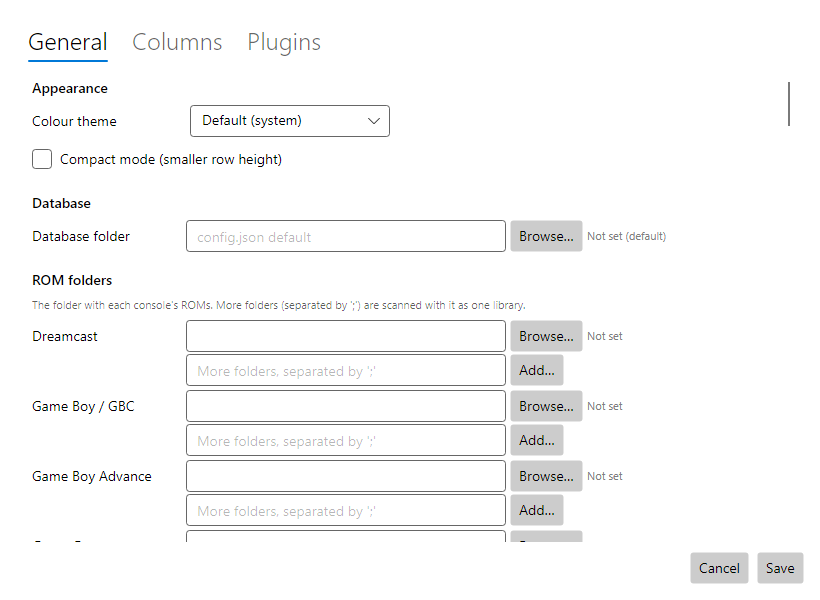
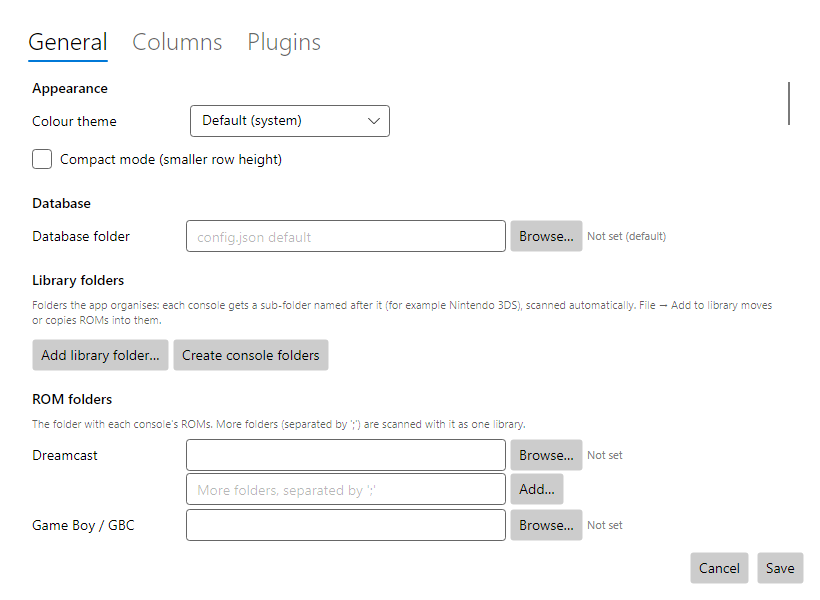
Docs: roadmap v6 (v5 archived), architecture, README and screenshots

diff --git a/RomManagerTests/HeadlessUiTests.cs b/RomManagerTests/HeadlessUiTests.cs
@@ -1,4 +1,4 @@
-using RomManagerShared.GameBoy;
+using RomManagerShared.GameBoy;
 using RomManagerShared.NES;
 using Avalonia;
 using Avalonia.Controls;
@@ -338,6 +338,43 @@ public sealed class HeadlessUiTests
         message.Show();
         Capture(message, "plugin-message");
         message.Close();
+
+        // File → Add to library: the plan before anything moves.
+        var import = new AddToLibraryViewModel(new LibraryImport([], new Dictionary<Type, IReadOnlyCollection<string>>()), [@"D:\Games"])
+        {
+            SourceFolder = @"D:\Downloads",
+            Summary = @"4 of 5 item(s) will be moved into D:\Games, one folder per console.",
+        };
+        import.Rows.Add(new ImportRow("Star Courier.nes", "NES", @"→ D:\Games\Nintendo Entertainment System\Star Courier.nes", true));
+        import.Rows.Add(new ImportRow("Ghost Lantern.gb", "Game Boy", @"→ D:\Games\Game Boy\Ghost Lantern.gb", true));
+        import.Rows.Add(new ImportRow("Sky Ferry.cue (+2 file(s))", "PlayStation", @"→ D:\Games\PlayStation\Sky Ferry.cue", true));
+        import.Rows.Add(new ImportRow("Lunar Drift", "Wii U", @"→ D:\Games\Wii U\Lunar Drift", true));
+        import.Rows.Add(new ImportRow("readme.txt", "?", "Skipped: Not a ROM format", false));
+        var importWindow = new DialogWindow(import);
+        importWindow.Show();
+        Find<ListBox>(importWindow).ItemCount.Should().Be(5);
+        Capture(importWindow, "add-to-library");
+        importWindow.Close();
+
+        // Properties: a game with its update and DLC as links.
+        var game = new Game
+        {
+            TitleID = "0004000000030700", Path = Path.Combine(Path.GetTempPath(), "roms", "Star Courier.3ds"), Version = "0",
+            Size = 512L << 20, Publisher = "Nintendo", ProductCode = "CTR-P-AMKE",
+        };
+        game.AddTitleName("Star Courier");
+        game.AddRegion(Region.USA);
+        var update = new Update { TitleID = "0004000E00030700", Path = Path.Combine(Path.GetTempPath(), "roms", "Star Courier Update.cia"), Version = "3152" };
+        update.AddTitleName("Star Courier Update");
+        var dlc = new DLC { TitleID = "0004008C00030700", Path = Path.Combine(Path.GetTempPath(), "roms", "Star Courier Tracks.cia") };
+        dlc.AddTitleName("Star Courier Track Pack");
+        var page = new TestConsoleViewModel();
+        page.Show(game, update, dlc);
+        var properties = new DialogWindow(new PropertiesDialogViewModel(page.Roms[0]));
+        properties.Show();
+        Find<Button>(properties, b => b.Content as string == "Star Courier Update v3152").Should().NotBeNull();
+        Capture(properties, "properties");
+        properties.Close();
 
         var onboarding = new OnboardingViewModel(new AvaloniaUI.Utils.Settings(), _ => { });
         onboarding.NextCommand.Execute(null);

diff --git a/docs/ROADMAP.md b/docs/ROADMAP.md
@@ -1,73 +1,65 @@
-# Roadmap v5
+# Roadmap v6
 
-Written 2026-10-28 after [v4](ROADMAP-v4.md), from a review of the context menu, the plugin system and the UI.
-The app is not public yet, so the plugin contract changes in place: it stays plugin API 1.
+Written 2026-10-28 after [v5](ROADMAP-v5.md), from using the app on a small 3DS library (an encrypted cartridge dump
+and its update CIA) and a list of problems and wishes.
 
 Legend: **[P0]** data safety or correctness, **[P1]** high value, **[P2]** nice to have.
 
 ---
 
-## Phase A: Context menu
+## Phase A: Bugs
 
-- [x] **[P0]** "✏ Rename Files" (Organise submenu) renamed every selected file with a hard-coded template: no
-      preview, no confirmation, no undo, next to the real Rename (F2). Remove it.
-- [x] **[P1]** "🔍 Find Duplicates" only wrote to the log. Remove it; "Duplicates…" on the page already shows a
-      preview and resolves them.
-- [x] **[P1]** "#⃣ Calculate Hashes" only logged its results. It becomes a built-in menu item that shows the
-      hashes when done and keeps them: they are written into the file's cached scan result, so the grid's Hashes
-      column and Properties show them (until the file changes).
-- [x] **[P2]** Switch "Group ROMs by Title" grouped a list on a throwaway manager and changed nothing on screen
-      (the page has its own grouping toggle). Remove it.
-- [x] **[P1]** The cards view had no context menu; it gets the table's menu (right-click selects the card).
-- [x] **[P2]** Action names lose their emoji and come from `Strings.resx`; action and plugin option icons
-      (`IconKey`: an image file next to the plugin or an app resource) are shown.
-- [x] **[P2]** Plugin options are grouped under the plugin's name (or the option's own `Category`) instead of
-      one generic "Plugins" submenu.
-- [x] **[P2]** The column picker's "Reset to defaults" and the plugin switches' "Enabled/Disabled" come from
-      `Strings.resx`.
+- [x] **[P0]** Rename wrote placeholders into file names: the dialog offered the grid's column names
+      (`{Product Code}`, `{FileName}`, `{Min Firmware}`) and the renamer left unknown ones as text. Placeholders
+      now accept any case and spaces, `{FileName}` and the console's `[UiProperty]` values work, an unknown
+      placeholder blocks the rename (and the dialog's Rename button), and `[{X}]` keeps its brackets when X has a
+      value. One placeholder list (`FileRenamer.GeneralPlaceholders`) for the renamer and the dialog.
+- [x] **[P0]** "On disk" showed 0 B: it summed title-database sizes, and the 3DS provider wrote the DB's size
+      (0 when unknown) over the file's. The scanner now fills the size on disk (the whole folder for folder
+      formats), providers only fill a missing size, and totals count each file once (`FileUtils.SizeOnDisk`).
+      `ScanVersion` 18.
+- [x] **[P1]** Updates and DLC were never linked to their game (`Game.Updates`, `RelatedGame` were always empty):
+      `RomRelations.Link` links them after each load by base title ID (3DS/Wii U category, Switch update/DLC
+      bits, shared IDs elsewhere). 3DS updates now group under their game. Links are not stored in the cache.
+- [x] **[P1]** Updates and DLC take their game's icon when they have none; 3DS games whose icon cannot be read
+      (encrypted dumps) show GameTDB box art.
+- [x] **[P1]** Properties showed more than the side panel (and "N/A" lines for the links): both show the same
+      details now; base game, updates and DLC are links to their rows; every value has a copy button.
+- [x] **[P1]** Launch in emulator did nothing without an emulator: it offers to choose the program, and logs
+      launches and failures.
+- [x] **[P2]** Renames, moves and the organiser log through `AppLog` (they had loggers but were given none, or
+      wrote to the console).
 
-## Phase B: Library metadata that survives rescans
+## Phase B: Library folders
 
-- [x] **[P1]** `RomMetadataOverrides` table (console, title ID, rom type → title, description, publisher,
-      developer, release date, genres, cover): applied to roms after enrichment and when the cache loads, so a
-      rescan or a moved file keeps them. Written by plugins (C) with undo.
+- [x] **[P1]** Settings → Library folders: folders the app organises, one sub-folder per console named after it;
+      scanned without listing them per console. "Create console folders" makes them.
+- [x] **[P1]** File → Add to library (Ctrl+O): files or a folder; move, copy or keep in place; a preview of
+      where each item goes. Console by extension and header; `.cue`/`.gdi`/`.m3u` sets stay together; game
+      folders move whole; ambiguous or clashing items are skipped with the reason. Queued, undoable.
+- [x] **[P1]** Move lists the console's other ROM folders first and offers to add an outside target as a ROM
+      folder (otherwise the moved roms would leave the library on the next scan).
 
-## Phase C: Plugin API (still version 1)
+## Phase C: Batch operations
 
-- [x] **[P1]** `IPlugin.ExecuteAsync(optionIndex, context, cancellationToken)`; plugin actions run in the
-      operation queue, so Cancel works, and report progress through `IPluginContext.Progress`.
-- [x] **[P1]** `IPluginContext.UpdateMetadataAsync(rom, RomMetadata)`: titles, descriptions, publisher,
-      developer, release date, genres and a cover image, saved as overrides (B). Needs the new
-      `PluginPermission.LibraryMetadata`. Undoable from the Operations panel.
-- [x] **[P1]** Results without Avalonia: `ShowMessageAsync`, `ShowTableAsync`, `ConfirmAsync`,
-      `PickSaveFileAsync` (a file the user picks may be written without the FileSystem permission) and
-      `OpenInBrowser` (http/https only).
-- [x] **[P1]** `SelectedRoms` is a copy: a plugin that changes it no longer changes the library behind the app's
-      back; changes go through `UpdateMetadataAsync`.
-- [x] **[P1]** `ILibraryHooks.OnFilesChangedAsync`: renamed, moved and deleted files (default no-op).
-- [x] **[P1]** Secret settings are encrypted at rest: DPAPI (current user) on Windows; elsewhere the file is
-      readable by the user only (0600).
-- [x] **[P2]** `SupportedConsoles` entries that match no console are logged when the plugin loads.
-- [x] **[P2]** Template and sample plugin follow the contract; README documents it.
+- [x] **[P1]** Verify against DATs: hash the selection (disc images too) and show which are good dumps.
+- [x] **[P1]** One folder per game: a game with its updates and DLC into a folder named after it (undoable).
+- [x] **[P2]** Export selection (CSV/JSON); select the selection's updates and DLC.
+- [ ] **[P2]** Edit metadata of several roms at once (publisher, developer, genres) through the override store.
 
-## Phase D: Plugins that ship with the app
+## Phase D: Plugins
 
-Bundled plugins live in `<app>/BuiltInPlugins/<Name>/` (sources in `Plugins/<Name>/`), are built with the app and are trusted like the app itself (no
-approval prompt). Plugins the user adds still need approval.
+- [x] **[P1]** GameTDB box art (Wii, GameCube, Wii U, DS, 3DS, Switch, PS3), no account.
+- [x] **[P1]** IGDB metadata (Twitch client ID and secret).
+- [ ] **[P2]** RetroAchievements: whether a game has achievements. Needs RetroAchievements' own hash per
+      console (headers stripped, disc track rules), not the file hash.
+- [ ] **[P2]** ScreenScraper metadata and media (needs developer credentials).
 
-- [x] **[P1]** RAWG metadata (the sample, now shipped): looks up the selection, shows a table of matches and saves
-      the chosen metadata and cover to the library (with undo).
-- [x] **[P1]** Web search: search the selection on the web (search engine URL in the plugin's settings;
-      YouTube and GameFAQs options).
-- [x] **[P1]** Playlists: export the selection as a RetroArch playlist (`.lpl`) or an EmulationStation
-      `gamelist.xml`.
+## Phase E: Save data
 
-## Phase E: UX pass
-
-- [x] Render every screen (headless screenshots) and fix what looks wrong: plugin messages used the preview dialog with an
-      empty list; they now use the message dialog (no Cancel, scrolls when long). New shots: plugin results and message,
-      Settings → Plugins.
-
-## Phase F: Tests and docs
-
-- [x] Tests for each change; ARCHITECTURE, README, SamplePlugin README and the template updated.
+- [x] **[P1]** Find a game's saves next to the ROM and in Citra/Azahar/Lime3DS, Yuzu-based Switch emulators,
+      PPSSPP, Dolphin (Wii), RPCS3 and Vita3K folders (portable or installed); shown in the details.
+- [x] **[P1]** Open the save folder; back up to a dated zip; restore from one (preview, current saves backed up
+      first).
+- [ ] **[P2]** Ryujinx saves (its save index needs parsing), PCSX2/DuckStation memory cards, RetroArch's
+      `saves` folder.

diff --git a/docs/ROADMAP-v5.md b/docs/ROADMAP-v5.md
@@ -1,0 +1,73 @@
+# Roadmap v5
+
+Written 2026-10-28 after [v4](ROADMAP-v4.md), from a review of the context menu, the plugin system and the UI.
+The app is not public yet, so the plugin contract changes in place: it stays plugin API 1.
+
+Legend: **[P0]** data safety or correctness, **[P1]** high value, **[P2]** nice to have.
+
+---
+
+## Phase A: Context menu
+
+- [x] **[P0]** "✏ Rename Files" (Organise submenu) renamed every selected file with a hard-coded template: no
+      preview, no confirmation, no undo, next to the real Rename (F2). Remove it.
+- [x] **[P1]** "🔍 Find Duplicates" only wrote to the log. Remove it; "Duplicates…" on the page already shows a
+      preview and resolves them.
+- [x] **[P1]** "#⃣ Calculate Hashes" only logged its results. It becomes a built-in menu item that shows the
+      hashes when done and keeps them: they are written into the file's cached scan result, so the grid's Hashes
+      column and Properties show them (until the file changes).
+- [x] **[P2]** Switch "Group ROMs by Title" grouped a list on a throwaway manager and changed nothing on screen
+      (the page has its own grouping toggle). Remove it.
+- [x] **[P1]** The cards view had no context menu; it gets the table's menu (right-click selects the card).
+- [x] **[P2]** Action names lose their emoji and come from `Strings.resx`; action and plugin option icons
+      (`IconKey`: an image file next to the plugin or an app resource) are shown.
+- [x] **[P2]** Plugin options are grouped under the plugin's name (or the option's own `Category`) instead of
+      one generic "Plugins" submenu.
+- [x] **[P2]** The column picker's "Reset to defaults" and the plugin switches' "Enabled/Disabled" come from
+      `Strings.resx`.
+
+## Phase B: Library metadata that survives rescans
+
+- [x] **[P1]** `RomMetadataOverrides` table (console, title ID, rom type → title, description, publisher,
+      developer, release date, genres, cover): applied to roms after enrichment and when the cache loads, so a
+      rescan or a moved file keeps them. Written by plugins (C) with undo.
+
+## Phase C: Plugin API (still version 1)
+
+- [x] **[P1]** `IPlugin.ExecuteAsync(optionIndex, context, cancellationToken)`; plugin actions run in the
+      operation queue, so Cancel works, and report progress through `IPluginContext.Progress`.
+- [x] **[P1]** `IPluginContext.UpdateMetadataAsync(rom, RomMetadata)`: titles, descriptions, publisher,
+      developer, release date, genres and a cover image, saved as overrides (B). Needs the new
+      `PluginPermission.LibraryMetadata`. Undoable from the Operations panel.
+- [x] **[P1]** Results without Avalonia: `ShowMessageAsync`, `ShowTableAsync`, `ConfirmAsync`,
+      `PickSaveFileAsync` (a file the user picks may be written without the FileSystem permission) and
+      `OpenInBrowser` (http/https only).
+- [x] **[P1]** `SelectedRoms` is a copy: a plugin that changes it no longer changes the library behind the app's
+      back; changes go through `UpdateMetadataAsync`.
+- [x] **[P1]** `ILibraryHooks.OnFilesChangedAsync`: renamed, moved and deleted files (default no-op).
+- [x] **[P1]** Secret settings are encrypted at rest: DPAPI (current user) on Windows; elsewhere the file is
+      readable by the user only (0600).
+- [x] **[P2]** `SupportedConsoles` entries that match no console are logged when the plugin loads.
+- [x] **[P2]** Template and sample plugin follow the contract; README documents it.
+
+## Phase D: Plugins that ship with the app
+
+Bundled plugins live in `<app>/BuiltInPlugins/<Name>/` (sources in `Plugins/<Name>/`), are built with the app and are trusted like the app itself (no
+approval prompt). Plugins the user adds still need approval.
+
+- [x] **[P1]** RAWG metadata (the sample, now shipped): looks up the selection, shows a table of matches and saves
+      the chosen metadata and cover to the library (with undo).
+- [x] **[P1]** Web search: search the selection on the web (search engine URL in the plugin's settings;
+      YouTube and GameFAQs options).
+- [x] **[P1]** Playlists: export the selection as a RetroArch playlist (`.lpl`) or an EmulationStation
+      `gamelist.xml`.
+
+## Phase E: UX pass
+
+- [x] Render every screen (headless screenshots) and fix what looks wrong: plugin messages used the preview dialog with an
+      empty list; they now use the message dialog (no Cancel, scrolls when long). New shots: plugin results and message,
+      Settings → Plugins.
+
+## Phase F: Tests and docs
+
+- [x] Tests for each change; ARCHITECTURE, README, SamplePlugin README and the template updated.

diff --git a/README.md b/README.md
@@ -1,4 +1,4 @@
-# RomManager
+# RomManager
 
 A desktop ROM library manager for Windows, Linux and macOS (.NET 10 + Avalonia). Point it at one
 folder per console and it reads each file's header or container to find the title ID, name, version,
@@ -10,6 +10,8 @@ hash files.
 | Table | Cards |
 |---|---|
 | ![Console page, table](docs/screenshots/console-table.png) | ![Console page, cards](docs/screenshots/console-cards.png) |
+| **Add to library** | **Properties** |
+| ![Add to library preview](docs/screenshots/add-to-library.png) | ![Properties with linked update and DLC](docs/screenshots/properties.png) |
 
 Screenshots are rendered by the headless UI tests with sample data (`SCREENSHOTS=1 dotnet test`).
 
@@ -21,8 +23,13 @@ Screenshots are rendered by the headless UI tests with sample data (`SCREENSHOTS
 - **Browse**: table or cover cards, an "All consoles" view, grouping of updates/DLC under their game,
   filters (type, region, language, format, has/no update, duplicates, unnamed) and search.
 - **Organise**: rename with a preview of old → new names, move with a preview, delete, hash
-  (CRC32/MD5/SHA1), duplicate detection, 1G1R (keep one version per game by region priority); operations
-  run in a queue with cancel and undo (undo survives a restart).
+  (CRC32/MD5/SHA1), duplicate detection, 1G1R (keep one version per game by region priority), one folder per
+  game (with its updates and DLC), verify a selection against DATs; operations run in a queue with cancel and
+  undo (undo survives a restart).
+- **Library folders**: folders the app organises with one sub-folder per console. File → Add to library moves
+  or copies files or a folder into them (or keeps them in place), showing where each file goes first.
+- **Save data**: finds a game's saves next to the ROM and in common emulators' folders (Citra/Azahar, Yuzu-based,
+  PPSSPP, Dolphin, RPCS3, Vita3K), opens them, backs them up to a zip and restores them.
 - **Convert**: CHD, RVZ, CSO and NSZ through chdman, DolphinTool, maxcso or nsz that you install
   yourself (Settings → Conversion tools); originals are kept.
 - **Identify**: No-Intro DAT matching for cartridge consoles (by hash), title databases for Switch,
@@ -32,8 +39,8 @@ Screenshots are rendered by the headless UI tests with sample data (`SCREENSHOTS
 - **Plugins**: add context-menu actions, save metadata to the library (undoable) and hear about scans and
   file changes; each plugin declares its permissions, needs your approval before it runs, and only gets
   network, files outside its folder, processes, the database and library metadata when it declared them.
-  Shipped with the app: RAWG metadata, web search (web, YouTube, GameFAQs) and playlists (RetroArch `.lpl`,
-  EmulationStation `gamelist.xml`). See [SamplePlugin](SamplePlugin/README.md).
+  Shipped with the app: RAWG and IGDB metadata, GameTDB box art, web search (web, YouTube, GameFAQs) and
+  playlists (RetroArch `.lpl`, EmulationStation `gamelist.xml`). See [SamplePlugin](SamplePlugin/README.md).
 
 ## Supported formats
 

diff --git a/docs/ARCHITECTURE.md b/docs/ARCHITECTURE.md
@@ -1,4 +1,4 @@
-# Architecture
+# Architecture
 
 State as of 2026-10-28. Target architecture and migration steps are in [ROADMAP.md](ROADMAP.md).
 
@@ -25,6 +25,11 @@ Solution: `RomManager.slnx`. Package versions: `Directory.Packages.props`. The d
   Icon, Images…). Subclasses per console and content kind: `Game`, `Update`, `DLC` and
   `<Console>Game/Update/DLC`. `[UiProperty]` drives grid columns.
 - `Rom.Equals` = (TitleID, Path).
+- `Game.Updates`/`DLCs` and `Update`/`DLC.RelatedGame` are runtime links, not stored (`[JsonIgnore]`):
+  `RomRelations.Link` fills them whenever a page shows its roms, matching `RomRelations.BaseTitleId` (3DS/Wii U
+  category word, Switch update/DLC bits, the same ID elsewhere). Updates/DLC without an icon take the game's.
+- `Rom.Size` is the size on disk: parsers may set a content size (Switch titles inside an XCI), the scanner fills
+  the file's (or game folder's) size when they do not, and title providers only fill a missing one.
 
 ## Pipeline
 
@@ -73,6 +78,8 @@ and it never enters the `LibraryFiles` snapshots (hashes are copied into them al
 | Logging | `AppLog` over `ILoggerFactory` (the host's in the app); `LogFileProvider` → `LogSink` (file, log panel) | `ParseDiagnostics` captures per-file messages during a scan; `FileUtils.Log` stays as a shim for plugins |
 | Config | `AppOptions` + per-module `Consoles:<Id>` sections (config.json, reloading) + `Settings.Instance` (settings.json) | Static accessor kept for non-DI code; `IOptionsMonitor<AppOptions>` in DI |
 | Operations | `OperationQueue` / `QueuedOperation` with cancel + undo, `RomOperationService` | Rename/move have dry-run previews; partial failures set `QueuedOperation.Warning` ("Partly done") |
+| Library folders | `Settings.LibraryFolders`; `LibraryRoots` adds `<folder>/<console display name>` when it exists. `LibraryImport` plans and runs File → Add to library (classify by `ConsoleDetector`, companions of sheets, skip reasons); `RomOperationService.EnqueueImport` queues it with undo | Keep in place adds the source folder to each console found |
+| Save data | `SaveData.Find` (next to the ROM + per-console emulator folders, portable from Settings → Emulators or installed), `Backup`/`Restore` (zip with a manifest of original paths) | Read-only while looking; restore backs up the current saves first |
 | Hashing | `HashUtils`: every algorithm in one read (`System.IO.Hashing.Crc32`, `IncrementalHash`), cancellable with progress | `HashRomsAsync` serves the queue and the context action |
 | File names | `FileRenamer.SanitizeFileName`: Windows/FAT-safe on every OS (invalid characters, trailing dots, device names, 255 chars) | Versions compare with `VersionKey` (numeric parts, culture-independent) |
 | Requirements | `IHasRequirements` → `ConsoleRequirement` (keys, dirs, DB files) | Surfaced in UI/onboarding |

diff --git a/CLAUDE.md b/CLAUDE.md
@@ -4,7 +4,7 @@ Cross-platform ROM library manager (.NET 10 + Avalonia). Scans ROM folders per c
 headers/containers, enriches metadata from title databases, and offers rename/move/dedupe/hash
 actions plus a plugin system.
 
-Docs: [docs/ARCHITECTURE.md](docs/ARCHITECTURE.md) · [docs/ROADMAP.md](docs/ROADMAP.md) (v5 plan; v1–v4 in ROADMAP-v1.md … ROADMAP-v4.md) ·
+Docs: [docs/ARCHITECTURE.md](docs/ARCHITECTURE.md) · [docs/ROADMAP.md](docs/ROADMAP.md) (v6 plan; v1–v5 in ROADMAP-v1.md … ROADMAP-v5.md) ·
 [docs/decisions/](docs/decisions/) (ADRs).
 
 ## Build / run / test
